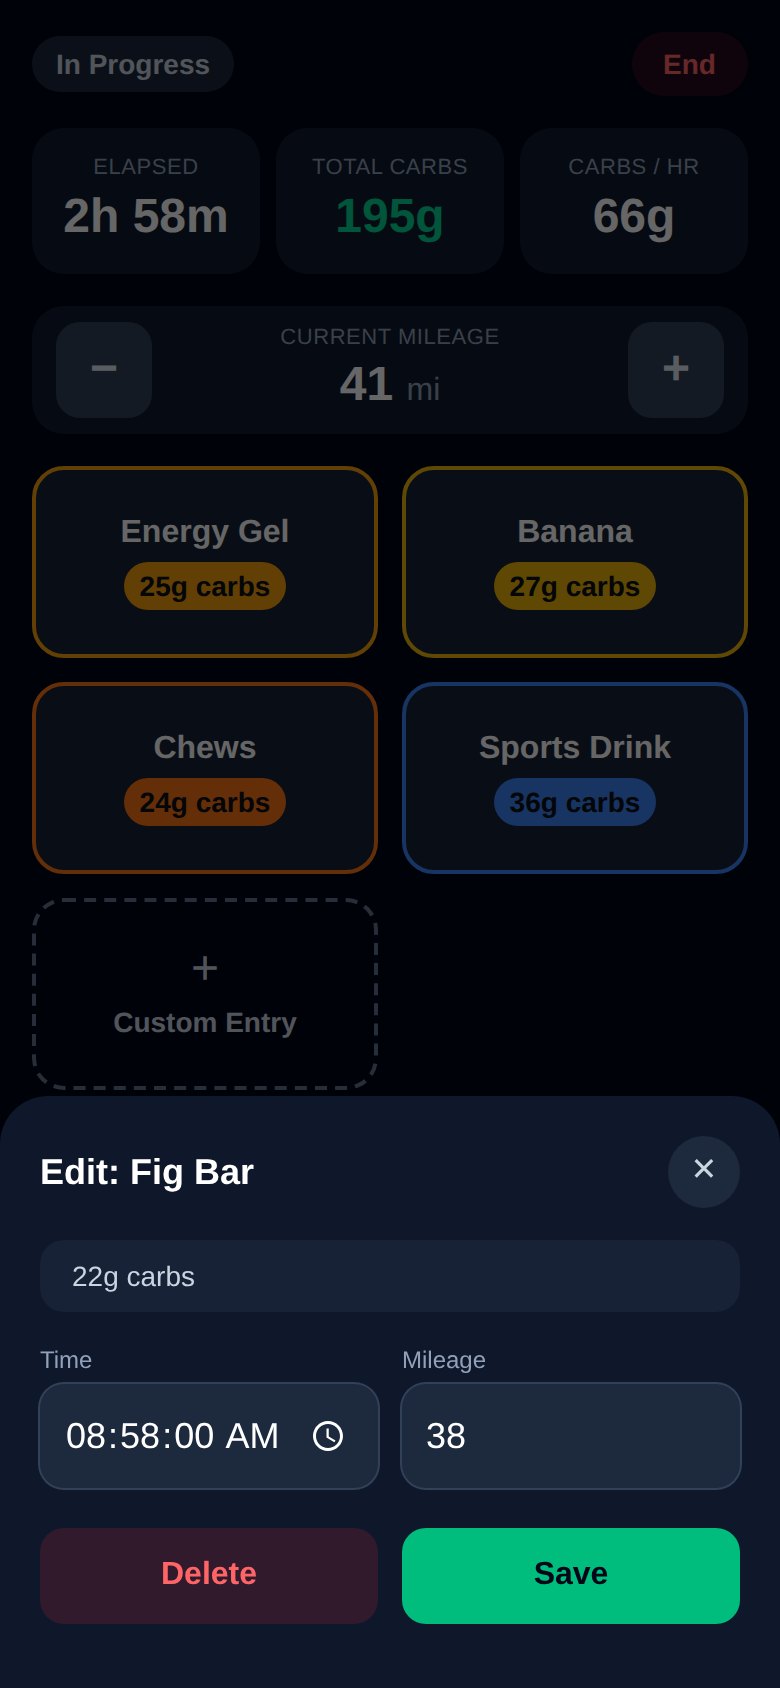
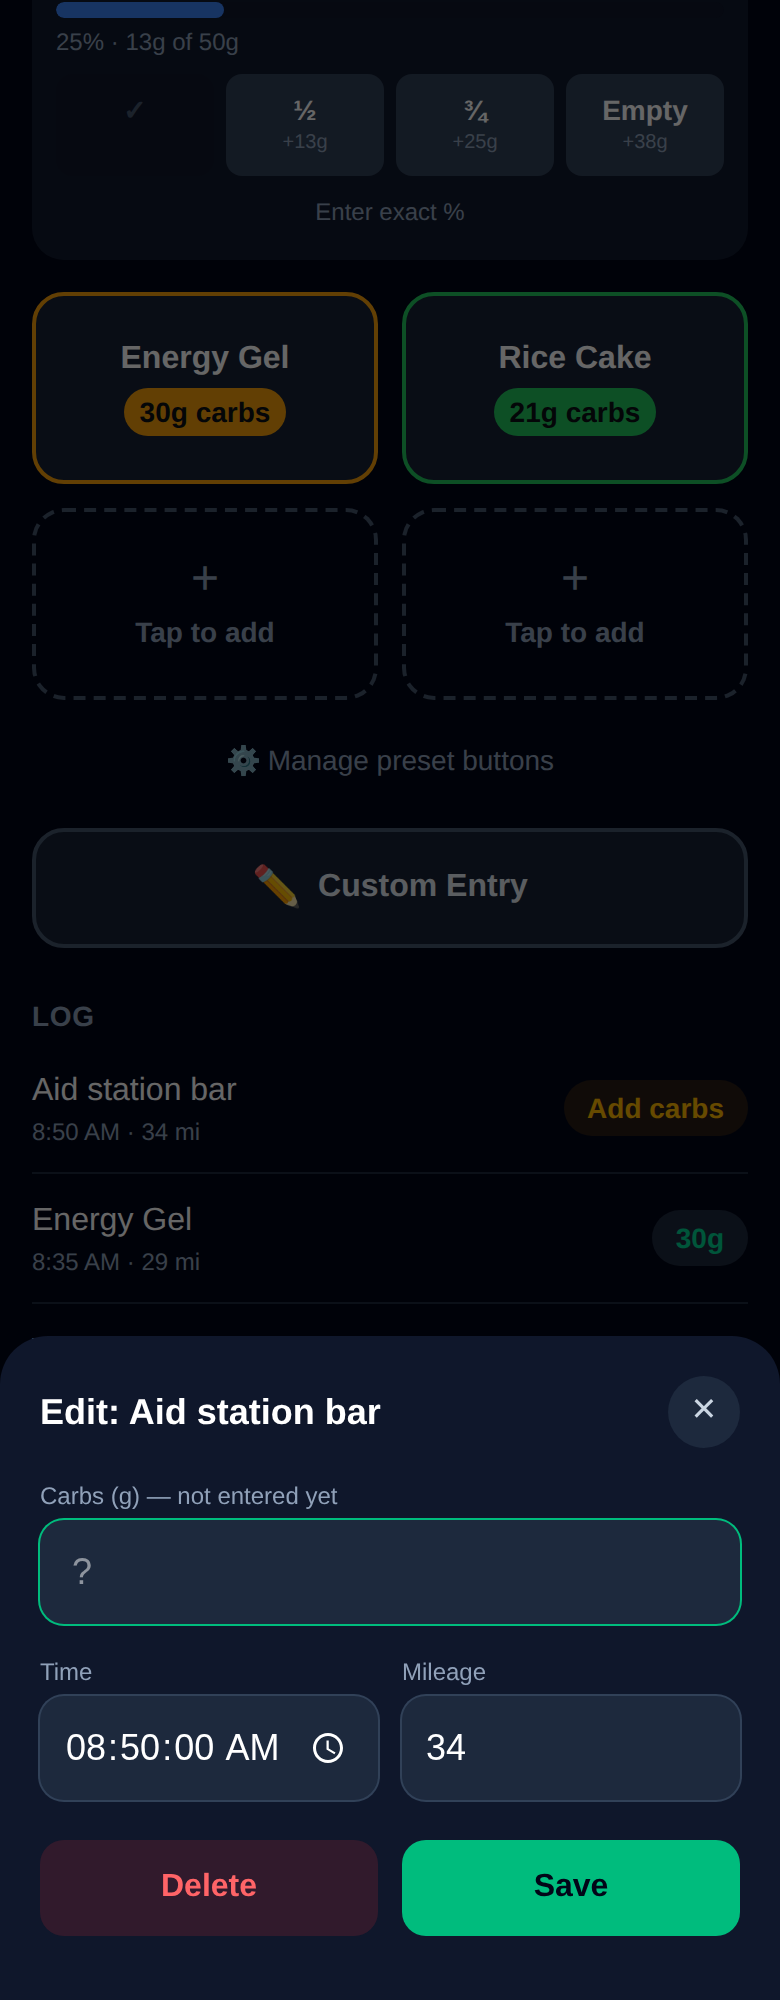
Refresh stale README screenshots and add the live app link (#6)
edit-entry.png, summary.png, and export-card.png predated the drinks
feature and pending-carbs entries: they still showed the old four-preset
grid, no Drinks section, and — worst offender — the edit modal rendering
carbs as static "22g carbs" text rather than the editable field it's had
since that work landed. Regenerated all three against a seeded session
using current defaults, including a drink entry and a pending-carbs entry
so they actually demonstrate those features instead of predating them.
Updated the hardcoded text-export sample in the README to match.

Also added a top-level link to the deployed GitHub Pages app, which the
README described the deployment process for but never actually linked.

diff --git a/README.md b/README.md
@@ -3,6 +3,8 @@
 A single-page web app for tracking nutrition consumption during runs and bike
 rides — designed for big, glove/sweat-friendly buttons you can hit mid-activity.
 
+**Live app:** https://awhlam.github.io/nutritrack/
+
 <p align="center">
   <img src="docs/screenshots/tracker.png" alt="Tracker screen showing 1h 32m elapsed, 64g total carbs, drink bottle slots for Water and Carb Drink Mix, item preset slots for Energy Gel and Rice Cake plus two empty tap-to-add slots, and a full-width Custom Entry button" width="330">
 </p>
@@ -58,8 +60,8 @@ the fact, including filling in a carb count you deliberately skipped at the
 time.
 
 <p align="center">
-  <img src="docs/screenshots/edit-entry.png" alt="Editing a past entry's time and mileage" width="330">
-  <img src="docs/screenshots/summary.png" alt="Finished session summary with export buttons and the full entry log" width="330">
+  <img src="docs/screenshots/edit-entry.png" alt="Editing a pending entry to fill in its carb count, with the amber 'Add carbs' pill visible in the log behind the modal" width="330">
+  <img src="docs/screenshots/summary.png" alt="Finished session summary showing a pending entry, drink log lines with their logged percent, export buttons, and the full entry log" width="330">
 </p>
 
 ### Export
@@ -68,7 +70,7 @@ time.
 native share sheet, so it can go straight into Messages or Strava.
 
 <p align="center">
-  <img src="docs/screenshots/export-card.png" alt="Exported summary card with duration, total carbs, carbs per hour and a table of every entry" width="420">
+  <img src="docs/screenshots/export-card.png" alt="Exported summary card with duration, total carbs, carbs per hour, and a table of every entry including drink percentages and a pending '?' carb count" width="420">
 </p>
 
 <details>
@@ -76,22 +78,22 @@ native share sheet, so it can go straight into Messages or Strava.
 
 ```
 NutriTrack
-Monday, August 10, 2026
+Thursday, August 13, 2026
 
-Duration:       2h 58m
-Total Carbs:    195 g
-Avg Carbs/hr:   66 g/hr
+Duration:       1h 58m
+Total Carbs:    94 g (excludes pending entries below)
+Avg Carbs/hr:   48 g/hr
 Entries:        7
 
 Time       Mileage   Item                      Carbs
 ----------------------------------------------------------
-7:12 AM    4 mi      Sports Drink              36g
-7:28 AM    9 mi      Energy Gel                25g
-7:47 AM    15 mi     Banana                    27g
-8:03 AM    20 mi     Chews                     24g
-8:22 AM    26 mi     Energy Gel                25g
-8:39 AM    32 mi     Sports Drink              36g
-8:58 AM    38 mi     Fig Bar                   22g
+7:12 AM    4 mi      Energy Gel                30g
+7:22 AM    7 mi      Water (+25%)              0g
+7:45 AM    14 mi     Carb Drink Mix (+25%)     13g
+8:00 AM    18 mi     Rice Cake                 21g
+8:15 AM    23 mi     Water (+25%)              0g
+8:35 AM    29 mi     Energy Gel                30g
+8:50 AM    34 mi     Aid station bar           ?
 
 Logged with NutriTrack
 ```
